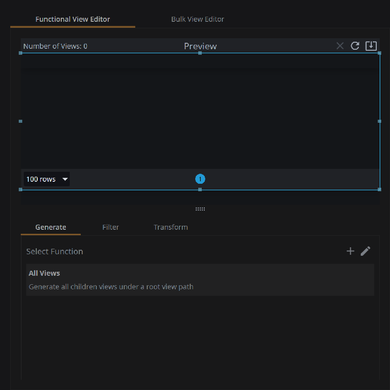
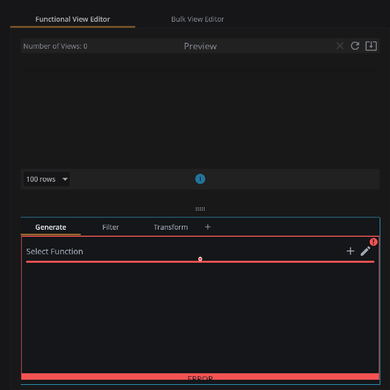
Make tag path to functions more robust using tagProiver

Changed region(s): [[0.0308, 0.5538, 0.9846, 1.0], [0.0308, 0.0923, 0.9846, 0.4923]]

diff --git a/ignition/script-python/settings/code.py b/ignition/script-python/settings/code.py
@@ -55,3 +55,4 @@ def getTagProvider():
 			return str(tagProvider)
 			
 	print 'RapidDev folder not found'
+	return '[default]'
